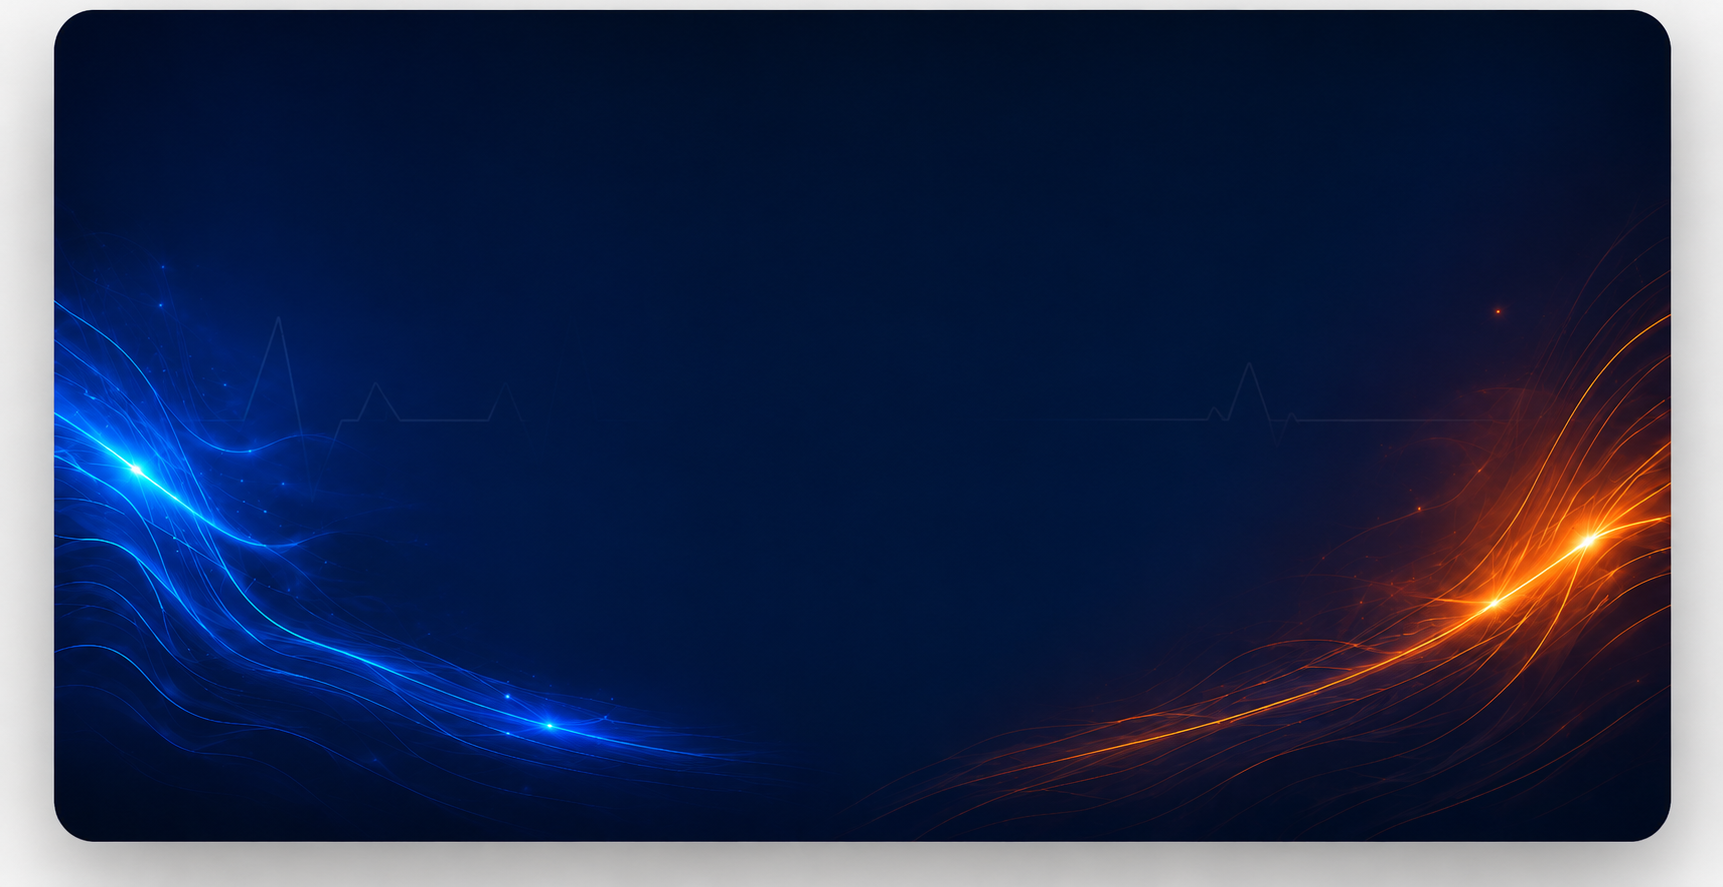
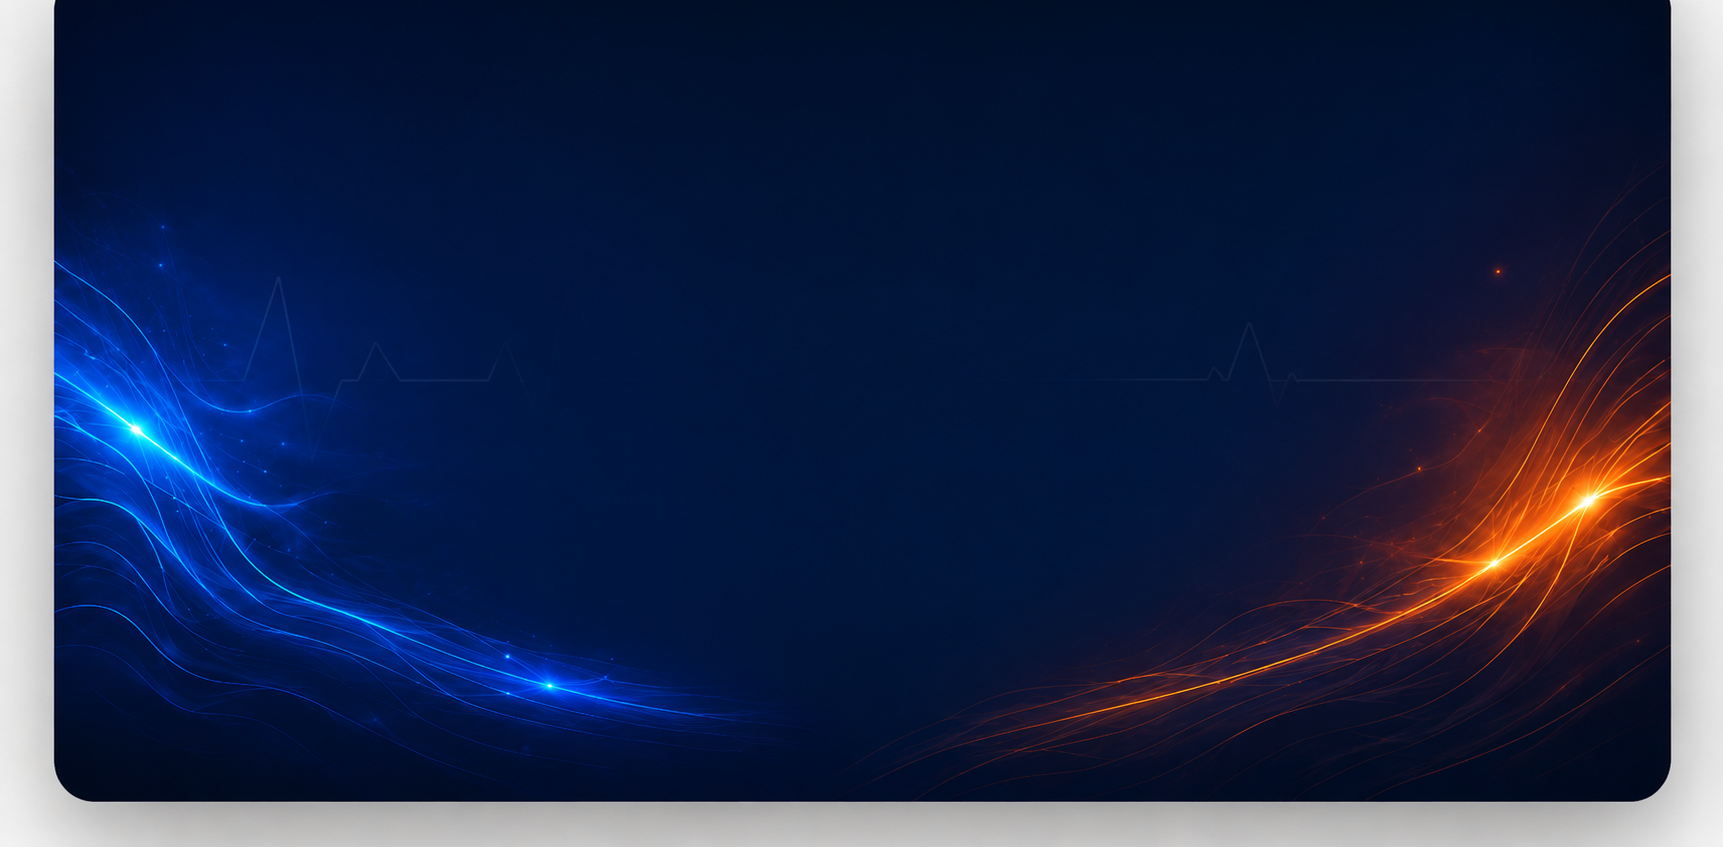
Crop lighter top corners from hero PNG and reset offset to 68px
The PNG's rounded rectangle had lighter corner areas at the top that
showed as a carry-over strip just below the nav. Cropped 40px from the
top of the image to start with solid dark. Offset reset to 68px (nav
height only) so the image starts cleanly right below the nav bar.

diff --git a/src/css/eht.css b/src/css/eht.css
@@ -228,7 +228,7 @@
 .eht-page-hero {
   background-image: url('/assets/images/homepage-heading-bg.png');
   background-size: 110% auto;
-  background-position: center 128px;
+  background-position: center 68px;
   background-repeat: no-repeat;
   background-color: #0C1B30;
   align-items: flex-start !important;

diff --git a/src/css/thermalrack.css b/src/css/thermalrack.css
@@ -9,7 +9,7 @@
 .thermalrack-hero {
   background-image: url('/assets/images/homepage-heading-bg.png');
   background-size: 110% auto;
-  background-position: center 128px;
+  background-position: center 68px;
   background-repeat: no-repeat;
   background-color: #0C1B30;
   align-items: flex-start !important;

diff --git a/src/css/sections.css b/src/css/sections.css
@@ -65,7 +65,7 @@
 .motiq-hero {
   background-image: url('/assets/images/homepage-heading-bg.png');
   background-size: 110% auto;
-  background-position: center 128px;
+  background-position: center 68px;
   background-repeat: no-repeat;
   background-color: #0C1B30;
   align-items: flex-start !important;

diff --git a/src/css/home.css b/src/css/home.css
@@ -13,7 +13,7 @@
   overflow: hidden;
   background-image: url('/assets/images/homepage-heading-bg.png');
   background-size: 110% auto;
-  background-position: center 128px;
+  background-position: center 68px;
   background-repeat: no-repeat;
   background-color: #0C1B30;
 }
